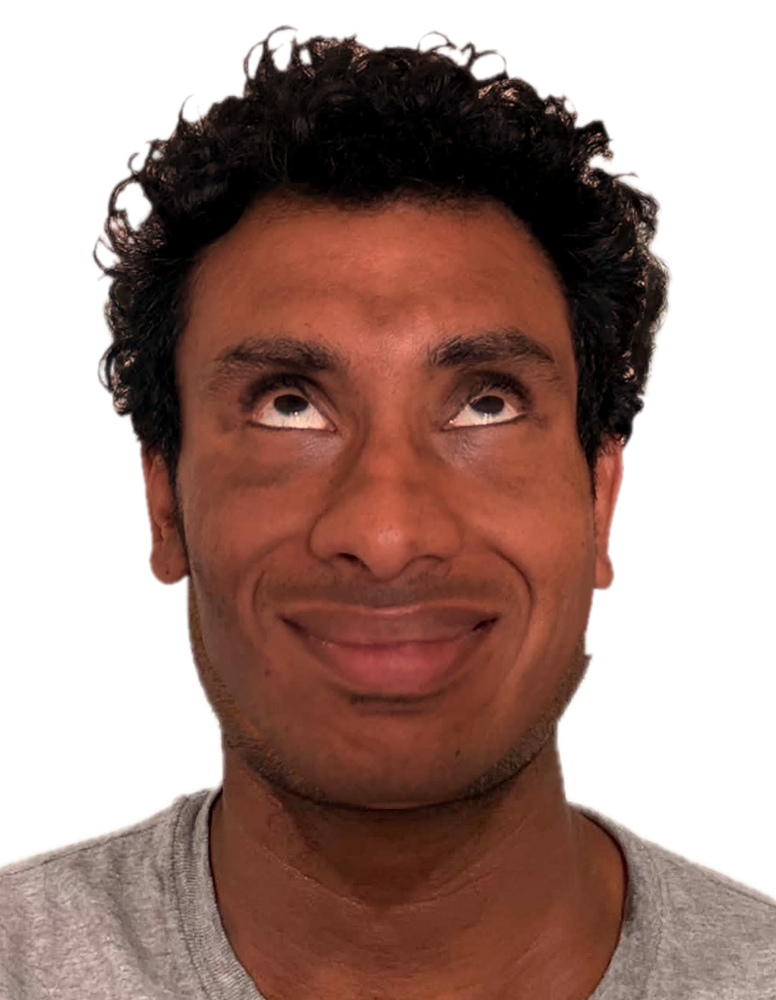
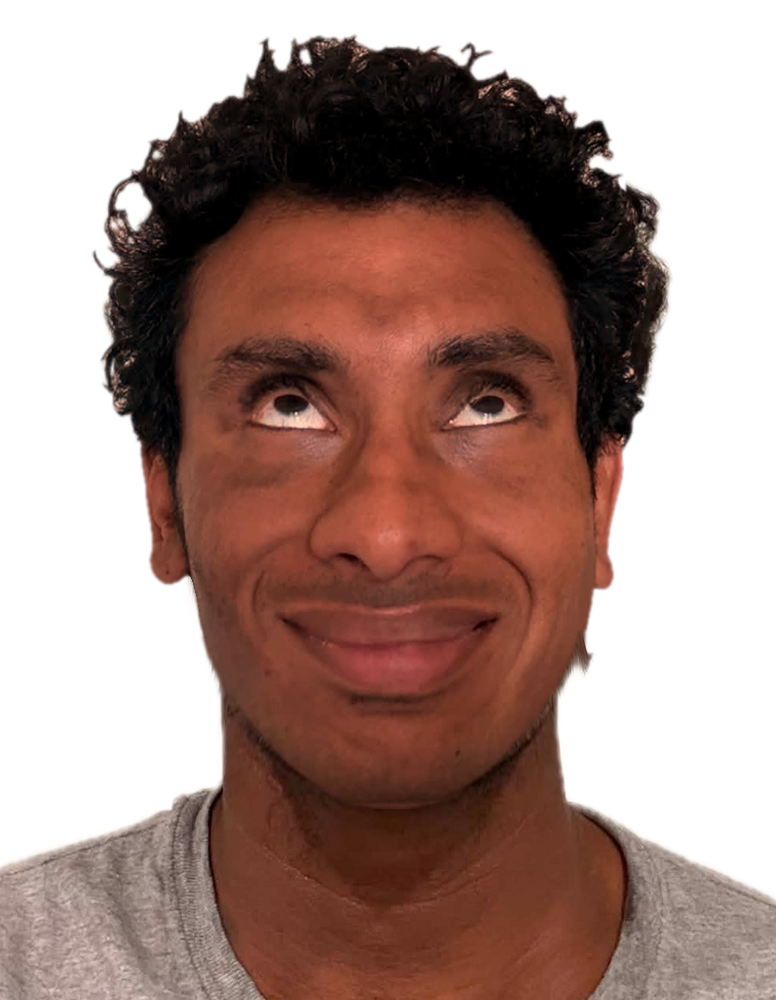
Even out the jawline on the looking-up pose
adit3's jaw poked out past adit5's at the bottom right. Hide adit3's face
wherever it falls outside adit5's head silhouette, and stretch adit3's neck up
in each column to meet adit5's (smoothed) jawline so there is no gap under the
chin. Also drop the hoodie's faint matte edge that showed as a thin line.

diff --git a/scripts/compose_lookup.py b/scripts/compose_lookup.py
@@ -31,6 +31,9 @@ OUT = ROOT / "assets" / "adit5-cut"
 
 JAW_DROP = 4        # px below the detected jawline that still counts as head
 LOBE_FRAC = 0.42    # ear-lobe level, as a fraction of the eye->chin height above the chin
+JAW_MARGIN = 8      # px below adit3's detected jawline still treated as its face (stubble edge)
+JAW_SMOOTH = 7      # px of smoothing on the detected jawlines
+NECK_SPAN = 60      # px of adit3's neck that get stretched up to meet adit5's jaw
 SEAM_FEATHER = 1.6  # px of blur on the head mask edge
 TONE_BLEND = 0.9    # how far to warm the head toward the body photo's skin tone
 
@@ -55,7 +58,8 @@ def jaw_curve(contour: np.ndarray, w: int) -> tuple[np.ndarray, int, int]:
         k = int(round(x))
         lower[k] = max(lower.get(k, -1), y)
     kx = np.array(sorted(lower)); ky = np.array([lower[k] for k in kx])
-    jaw[xs] = np.interp(xs, kx, ky)
+    # the contour is only 17 points; smooth the straight segments into a curve
+    jaw[xs] = ndimage.gaussian_filter1d(np.interp(xs, kx, ky), JAW_SMOOTH, mode="nearest")
     return jaw, x0, x1
 
 
@@ -103,12 +107,16 @@ def main() -> None:
     # beside the jaw, below the lobes, anything that is not skin is hood too
     hood |= (yy > lobe_y) & ((xx < jx0) | (xx > jx1)) & (h_a > 0.5) & ~skin_mask(h_rgb)
 
-    keep = (h_a > 0.02) & ~below_jaw & ~hood
-    keep = ndimage.binary_opening(keep, iterations=1)
-    lbl, n = ndimage.label(keep)
+    # solid head pixels first; then allow only the soft matte edge that borders
+    # them — the hoodie's own faint outline edge would otherwise survive as a
+    # thin line floating beside the jaw
+    solid = (h_a > 0.5) & ~below_jaw & ~hood
+    solid = ndimage.binary_opening(solid, iterations=1)
+    lbl, n = ndimage.label(solid)
     if n > 1:
-        sizes = ndimage.sum(keep, lbl, index=np.arange(1, n + 1))
-        keep = lbl == (int(np.argmax(sizes)) + 1)
+        sizes = ndimage.sum(solid, lbl, index=np.arange(1, n + 1))
+        solid = lbl == (int(np.argmax(sizes)) + 1)
+    keep = ndimage.binary_dilation(solid, iterations=2) & (h_a > 0.02) & ~below_jaw & ~hood
     m = ndimage.gaussian_filter(keep.astype(float), SEAM_FEATHER) * h_a
 
     # --- head: match its skin tone to the body photo's lighting ------------
@@ -140,6 +148,54 @@ def main() -> None:
     b_lobe = b_chin - LOBE_FRAC * (b_chin - eye_y)
     ears = (yy > b_ear_top - 30) & (yy < b_lobe + 12) & ((xx < bx0 + 16) | (xx > bx1 - 16))
     b_a = b_a * (1 - ndimage.gaussian_filter(ears.astype(float), 1.5))
+
+    # adit5's jawline sits a little higher than adit3's. Rather than show
+    # adit3's jaw underneath (it pokes out past adit5's), stretch adit3's neck
+    # up in each column so it meets adit5's jaw — with the head tilted back you
+    # would see more neck anyway. adit3's own jaw is then hidden.
+    rows = np.arange(h, dtype=float)
+    in_head = m > 0.5
+    head_bottom_col = np.where(in_head.any(axis=0), h - 1 - np.argmax(in_head[::-1], axis=0), -1)
+    face_line = np.where(np.isnan(b_jaw), -1.0, b_jaw + JAW_MARGIN)  # adit3 face is above this
+    b_rgb, b_a = b_rgb.copy(), b_a.copy()
+    src_rgb, src_a = b_rgb.copy(), b_a.copy()
+
+    # neck columns: where adit3 is solid on a row just under its chin
+    neck_row = int(b_chin) + 25
+    cand = (src_a[neck_row] > 0.9) & (head_bottom_col >= 0) & (face_line >= 0)
+    # every other column beside the face: nothing of adit3 above its chin
+    # level (the detected jawline sits inside the real jaw edge near the ears,
+    # so "below the jawline" there is still jaw; the t-shirt starts lower)
+    for x in range(max(bx0 - 25, 0), min(bx1 + 25, w - 1) + 1):
+        if not cand[x]:
+            face_line[x] = b_chin
+    lbl, n = ndimage.label(cand)
+    stretched = 0
+    if n:
+        run = max(range(1, n + 1), key=lambda i: (lbl == i).sum())
+        cols = np.where(lbl == run)[0]
+        # smooth the per-column targets so neighbouring columns stretch alike
+        hb_s = ndimage.gaussian_filter1d(head_bottom_col[cols].astype(float), 4, mode="nearest")
+        nx_s = ndimage.gaussian_filter1d(face_line[cols], 4, mode="nearest")
+        for x, hb, nx in zip(cols, hb_s, nx_s):
+            y0 = int(round(hb)) - 3
+            if y0 >= nx:
+                continue
+            y1 = int(min(nx + NECK_SPAN, h - 1))
+            ys = np.arange(y0, y1)
+            src = nx + (ys - y0) * (y1 - nx) / (y1 - y0)
+            for c in range(3):
+                b_rgb[ys, x, c] = np.interp(src, rows, src_rgb[:, x, c])
+            b_a[ys, x] = np.interp(src, rows, src_a[:, x])
+            face_line[x] = y0 - 1
+            stretched += 1
+    print(f"neck stretched up in {stretched} columns")
+
+    # hide adit3's face wherever it would show outside adit5's head silhouette
+    inside_outline = ndimage.binary_dilation(ndimage.binary_fill_holes(in_head), iterations=1)
+    adit3_face = yy <= face_line[None, :]
+    body_keep = ~adit3_face | inside_outline
+    b_a = b_a * ndimage.gaussian_filter(body_keep.astype(float), 1.0)
 
     # --- composite: head over body -----------------------------------------
     out_a = m + b_a * (1 - m)
